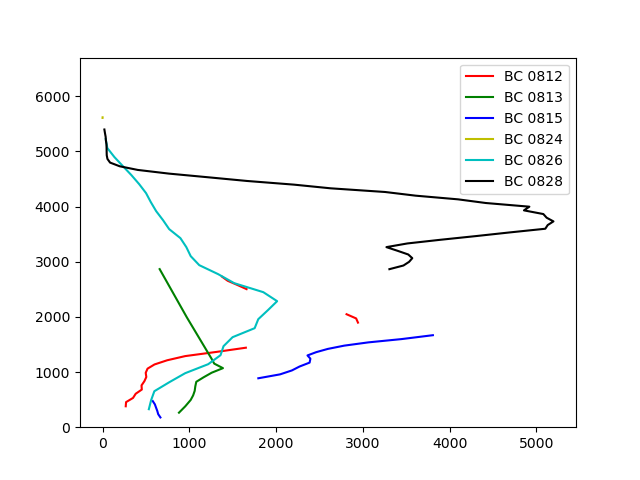
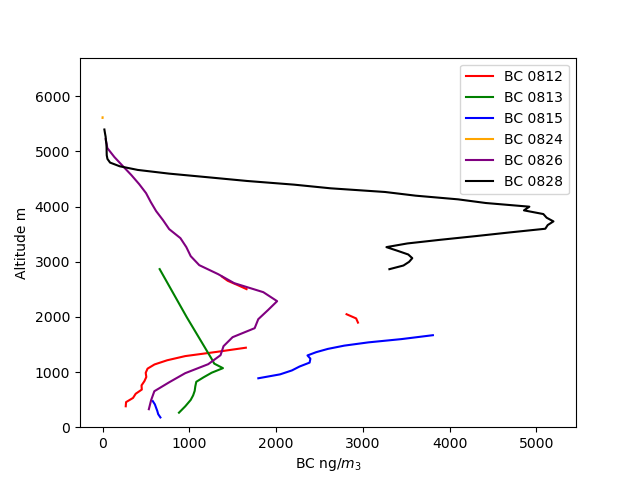
update pngs

diff --git a/plotting.py b/plotting.py
@@ -4,7 +4,7 @@ import numpy as np
 import os
 from consts import *
 
-cmap = ['r', 'g', 'b', 'y', 'c', 'k']
+cmap = ['r', 'green', 'b', 'orange', 'purple', 'k']
 
 def filter_lat(df, r):
     return df.loc[(df['Latitude'] >= r[0]) & (df['Latitude'] <= r[1])]
